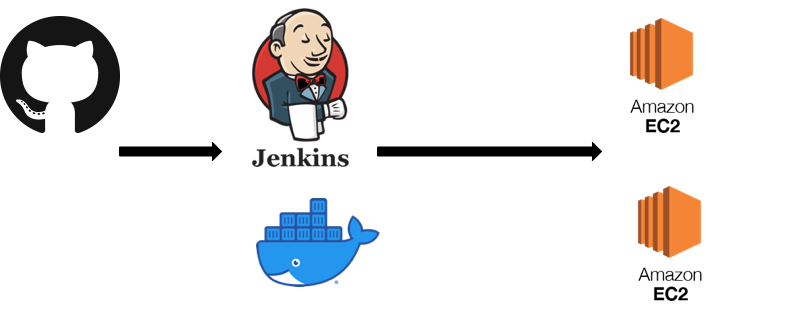
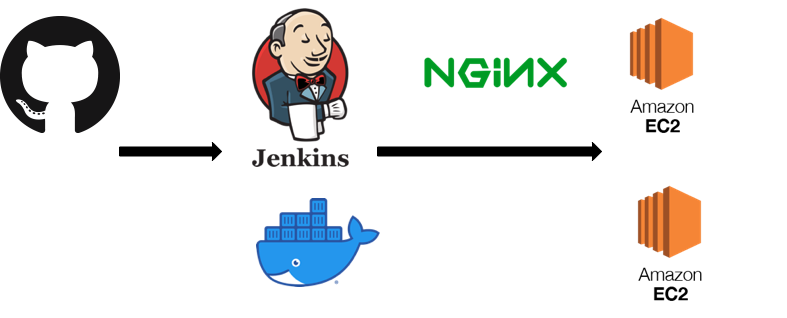
doc: update README.md

Changed region(s): [[0.5184, 0.1698, 0.7319, 0.283]]

diff --git a/README.md b/README.md
@@ -25,7 +25,7 @@ Mogaco
 - Spring REST DOC 작성
 
 ## 사용 기술 및 환경
-Spring boot, JPA, H2-Database React, Saga, Redux
+Spring boot, JPA, H2-Database React, Saga, Redux, Nginx, MySql
 <br />
 - Spring Boot는 이미 많은 회사에서 백엔드 기술로 사용되고 있습니다. 
   Spring 에 비해 간단한 설정으로 웹 개발을 진행할 수 있습니다.
